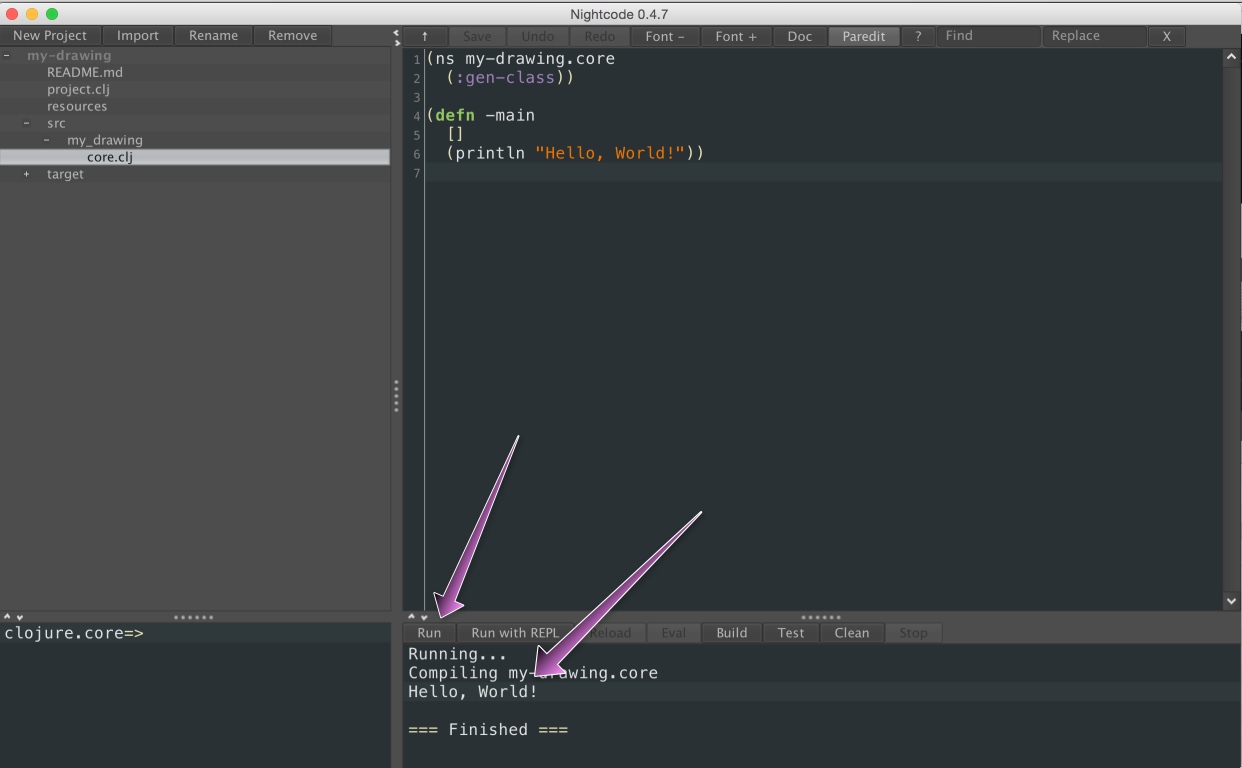
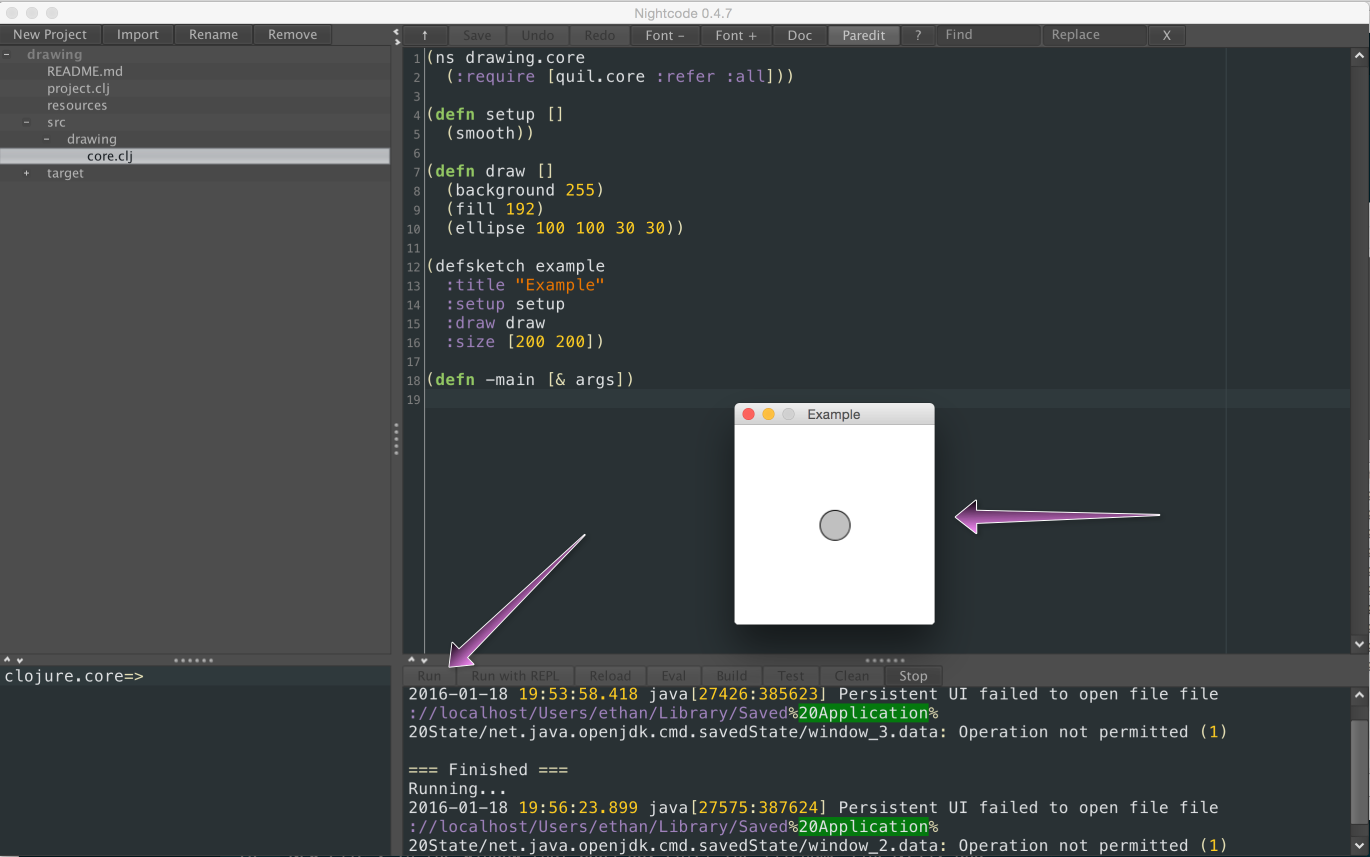
Update Create a Project Section

Changed region(s): [[0.0, 0.0, 1.0, 1.0], [0.3977, 0.5938, 0.4283, 0.6562]]

diff --git a/curriculum/first-program.md b/curriculum/first-program.md
@@ -58,17 +58,18 @@ Because you chose the "Graphics" option, your project is configured to
 use a Clojure library called [Quil](https://github.com/quil/quil),
 which creates drawings called "sketches."
 
-By default, your project has been setup with some "Hello World" test
-code. Let's go ahead and run this code to make sure everything is working.  
-In Nightcode, look for the "Run" option on the bottom of the main window
-and click it.
+By default, your project has been setup with an example sketch. Let's go
+ahead and run this code to make sure everything is working.  In Nightcode,
+look for the "Run" option on the bottom of the main window and click it.
 
 ![](/curriculum/images/nc-scrn3.png?raw=true)
 
-As in the screenshot above, you should see the the text "Running..."
-and then "Hello, World!" in the execution console just below the main
-editor window. Just so you now, you can also press `Ctrl + R` (or `Cmd + R`)
-to run the project.
+As in the screenshot above, you should see a separate window popup with a
+simple circle within it. If you don't see the window right away, wait a bit
+and make sure it hasn't appeared somewhere behind your other windows.
+
+Great, you've run your the program! Also, just so you know, in Nightcode you
+can also run the project code by pressing `Ctrl + R` (or `Cmd + R`).
 
 ## Modify Project
 
